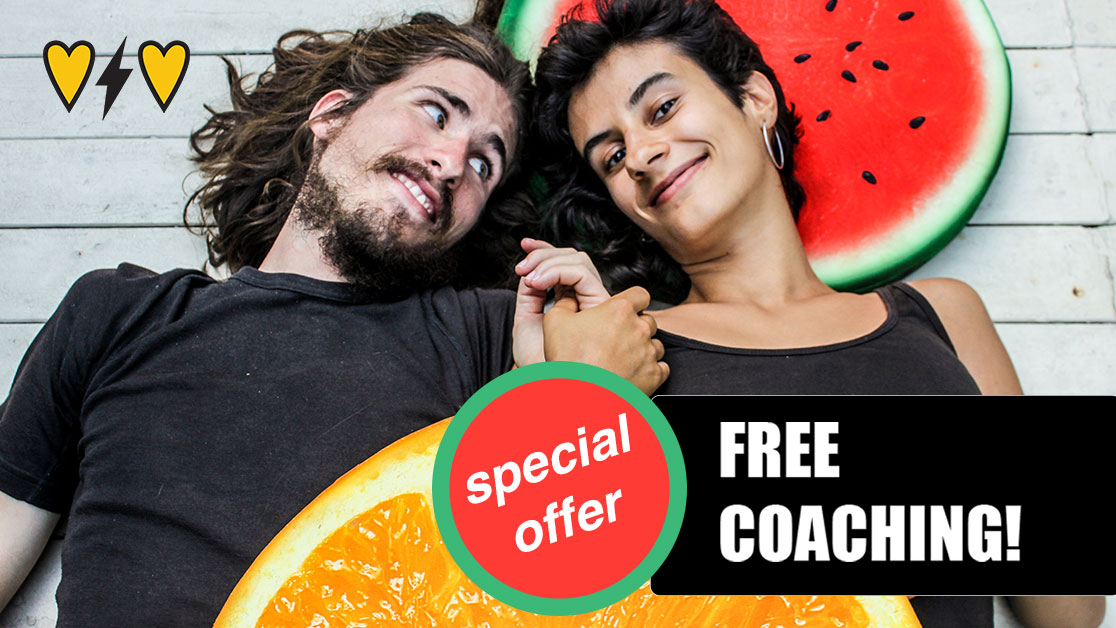
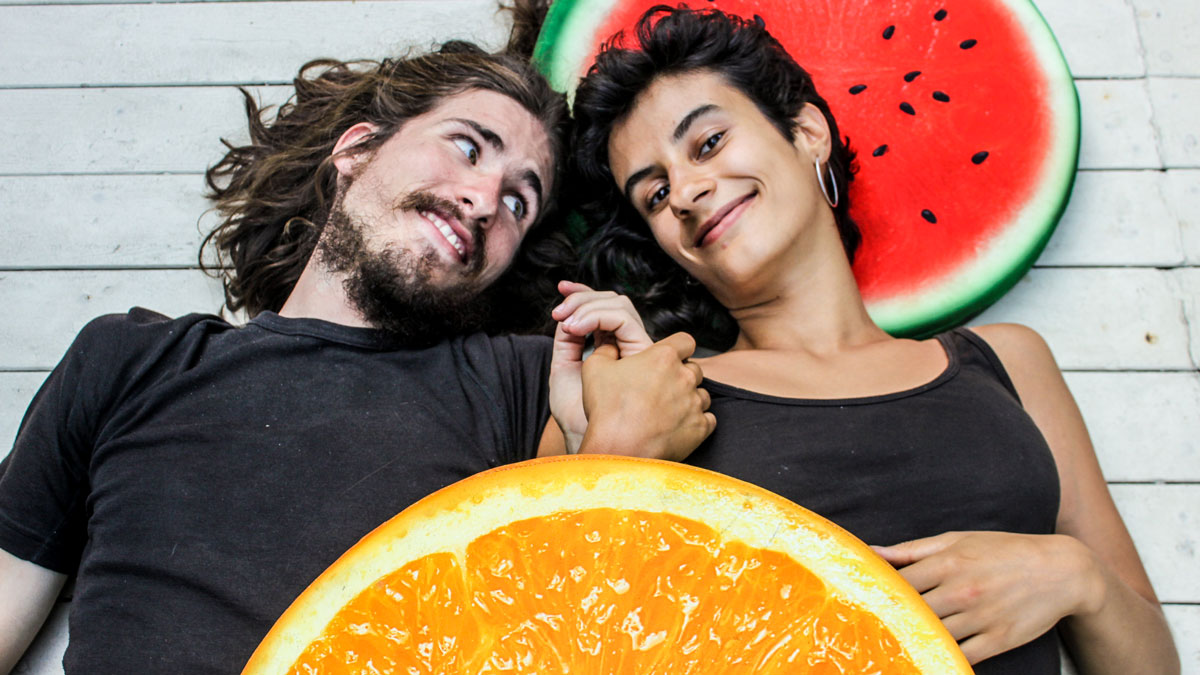
Changed Coaching meta

diff --git a/coaching.html b/coaching.html
@@ -1,9 +1,9 @@
 ---
 layout: default
-title: "Free Coaching Sessions: Limited offer!"
+title: "Live Your Dreams: Honeyboom Coaching"
 permalink: /coaching/
 image: /assets/images/coaching/meta.jpg
-description: "Would you like to have an absolutely extraordinary relationship? Would you like to find your passion and live it? Apply to get free coaching sessions with us and let’s get to work!"
+description: "Would you like an extraordinary relationship? Would you like to find your passion and make it your lifestyle? Let's do it together—check out our coaching packages!"
 ---
 
 <div class="slider" onclick="plusDivs(1)">
